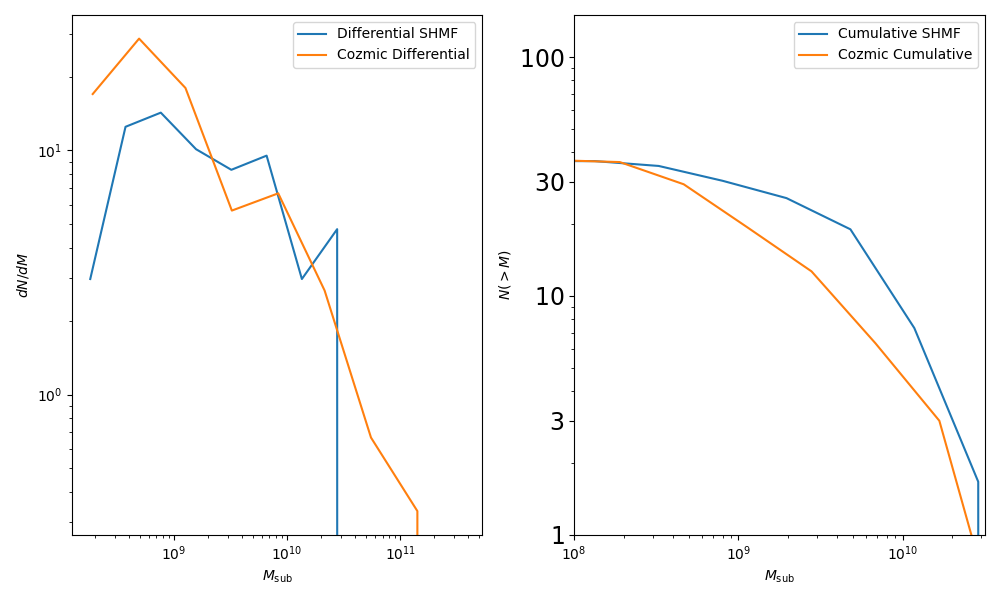
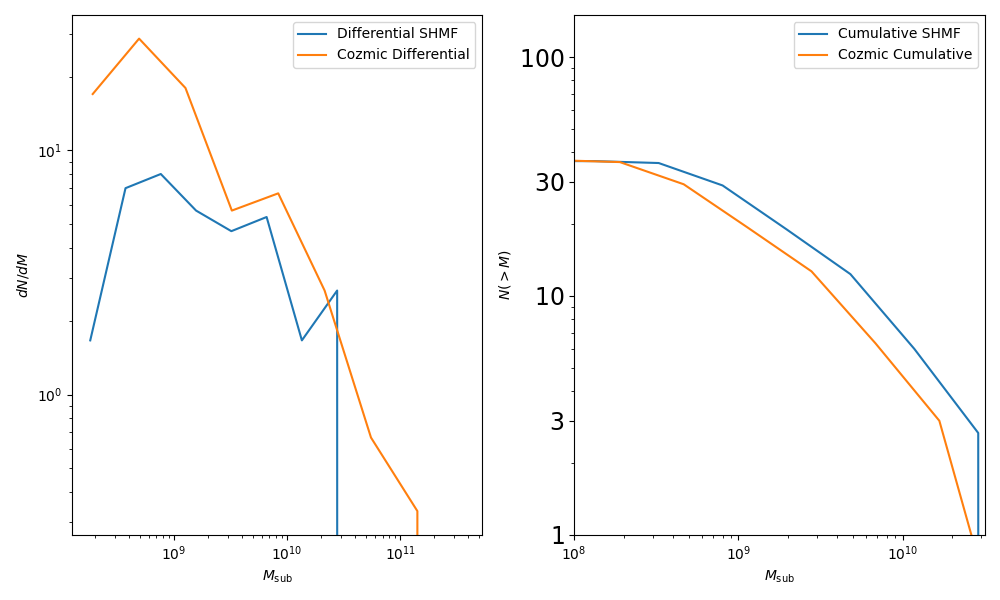
Mean update

diff --git a/plot_SHMF.py b/plot_SHMF.py
@@ -11,6 +11,12 @@ BASE_PATH_HALO113 = '/central/groups/carnegie_poc/enadler/ncdm_resims/Halo113/'
 BASE_PATH_HALO023 = '/central/groups/carnegie_poc/enadler/ncdm_resims/Halo023/'
 
 # Accessing the three host halos from the COZMIC 1 suite of simulations
+HALO_LIST = {'Halo004', 'Halo113', 'Halo23'}
+HALO_TYPES = {'wdm_3', 'wdm_4', 'wdm_5', 'wdm_6', 'wdm_6.5', 'wdm_10'}
+HALO_IDS = {1889038, 3365592, 1801126}
+
+#take in a list of halos, then for each halo go through each id
+
 halos_wdm3_004 = readHlist(BASE_PATH_HALO4 + 'wdm_3/output_wdm_3/rockstar/hlists/hlist_1.00000.list')
 host_wdm3_004 = halos_wdm3_004[halos_wdm3_004['id'] == 1889038]
 subhalos_wdm3_004 = halos_wdm3_004[halos_wdm3_004['upid']==host_wdm3_004['id']]
@@ -98,7 +104,8 @@ diff_hist_2, _ = np.histogram(mass_peak_with_Mvir_cut_113/h_cdm, bins=diff_log_b
 diff_hist_3, _ = np.histogram(mass_peak_with_Mvir_cut_023/h_cdm, bins=diff_log_bins)
 
 # Differential SHMF Mean
-diff_mean = (diff_hist_1 + diff_hist_2 + diff_hist_3)* np.diff(log_bins)[0]/(np.diff(np.log10(diff_log_bins))[0]*3) # Normalize by bin width (log space)
+diff_mean = np.mean([diff_hist_1, diff_hist_2, diff_hist_3], axis=0) # Normalize by bin width (log space)
+#* np.diff(log_bins)[0]/(np.diff(np.log10(diff_log_bins))[0]*3)
 
 # Cummulative log bin choice
 cumm_log_bins = np.linspace(7.5,11,10)
@@ -112,7 +119,11 @@ cumm_hist_2, _ = np.histogram(mass_peak_with_Mvir_cut_113/h_cdm, bins=cumm_bins)
 cumm_hist_3, _ = np.histogram(mass_peak_with_Mvir_cut_023/h_cdm, bins=cumm_bins)
 
 # Cumulative SHMF
-cumm_mean = np.cumsum(cumm_hist_1 + cumm_hist_2 + cumm_hist_3[::-1])[::-1]/3 # Reverse cumulative sum
+cumm_mean_1 = np.cumsum(cumm_hist_1[::-1])[::-1] # Reverse cumulative sum
+cumm_mean_2 = np.cumsum(cumm_hist_2[::-1])[::-1] # Reverse cumulative sum
+cumm_mean_3 = np.cumsum(cumm_hist_3[::-1])[::-1] # Reverse cumulative sum
+
+total_cumm_mean = np.mean([cumm_mean_1, cumm_mean_2, cumm_mean_3], axis=0)
 
 # Differential WDM SHMF
 # beyond_CDM_SHMF.f_beyond_CDM(diff_mean/h_cdm, 10, 2.5, 0.9, 1.0)
@@ -145,7 +156,7 @@ ax1.legend()
 
 # Cumulative plot
 ax2 = plt.subplot(1, 2, 2)
-ax2.plot(cumm_bin_centers, cumm_mean, label="Cumulative SHMF")
+ax2.plot(cumm_bin_centers, total_cumm_mean, label="Cumulative SHMF")
 ax2.plot(x_cumm,y_cumm, label="Cozmic Cumulative")
 
 # Cumulative plot style
